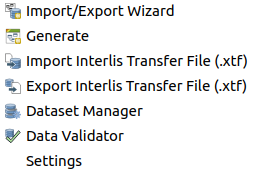
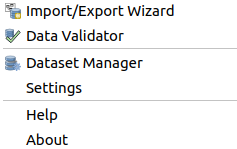
remove single dialog buttons from documentation as well

diff --git a/docs/user_guide/get_started.md b/docs/user_guide/get_started.md
@@ -13,14 +13,11 @@ After the installation you can find all the Features in the *Database > Model Ba
 ### Import / Export Wizard
 The wizard contains all the functionalities to create database schemas from INTERLIS models, import / export transferdata and generate QGIS projects from the database. It leads you through the process with all the possiblities you have with the single dialogs. Find a guide through the [import and generate process with the wizard](../import_workflow/) and through the [export process with the wizard](../export_workflow/) in this documentation.
 
-### Generate and Import/Export Data Dialogs
-The former dialogs to create a database / generate a project or import / export transfer files are still available. They are applied very similar in the wizard, so you can find the information about them you need in the sections concerning the wizard workflows.
+### Data Validator
+The Data Validator provides you the possiblity to check the data currently open in your QGIS against an INTERLIS model. You can open the validator panel as well over *View > Panels > Model Baker Data Validator*. See for more information about it [Validate Data](../user_guide/validation.md)
 
 ### Dataset Manager
 The dataset manager provides you the possiblity to create and rename datasets and generate the baskets for the datasets. More information you can find in the [Dataset and Basket Handling](../background_info/basket_handling.md)
-
-### Data Validator
-The Data Validator provides you the possiblity to check the data currently open in your QGIS against an INTERLIS model. You can open the validator panel as well over *View > Panels > Model Baker Data Validator*. See for more information about it [Validate Data](../user_guide/validation.md)
 
 ## The Model Baker Toolbar
 Most of the functionalities are available in the toolbar as well.
